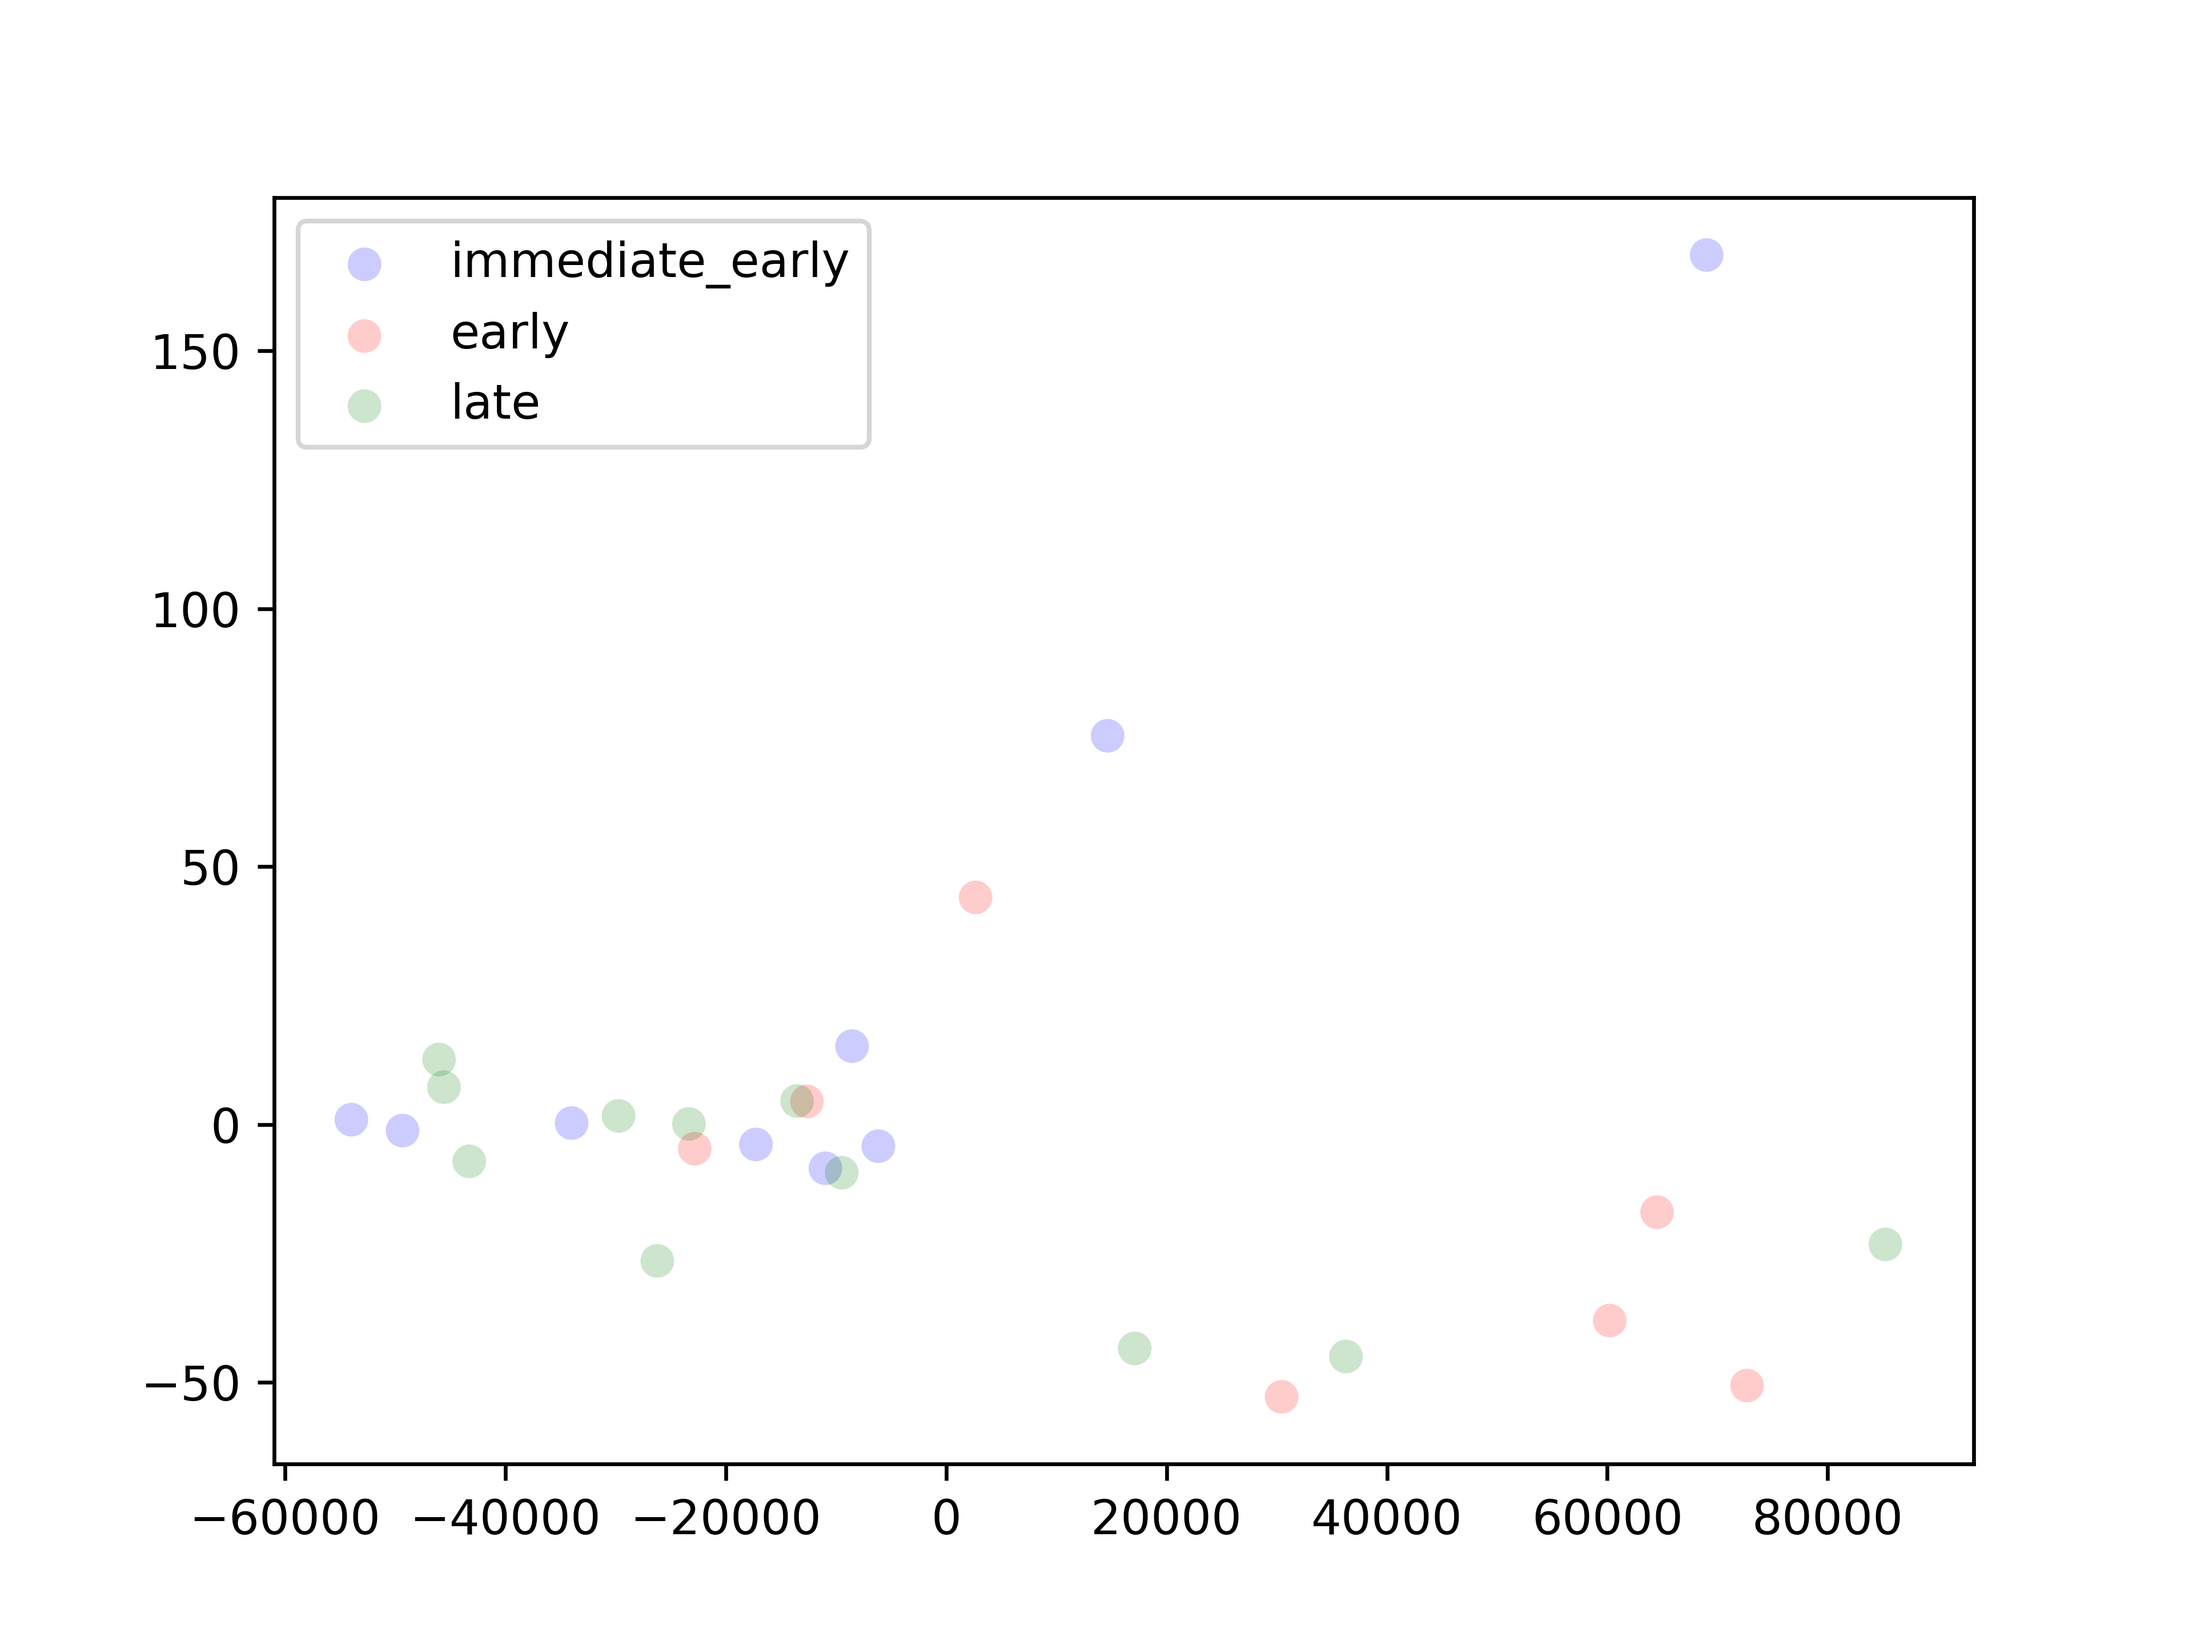
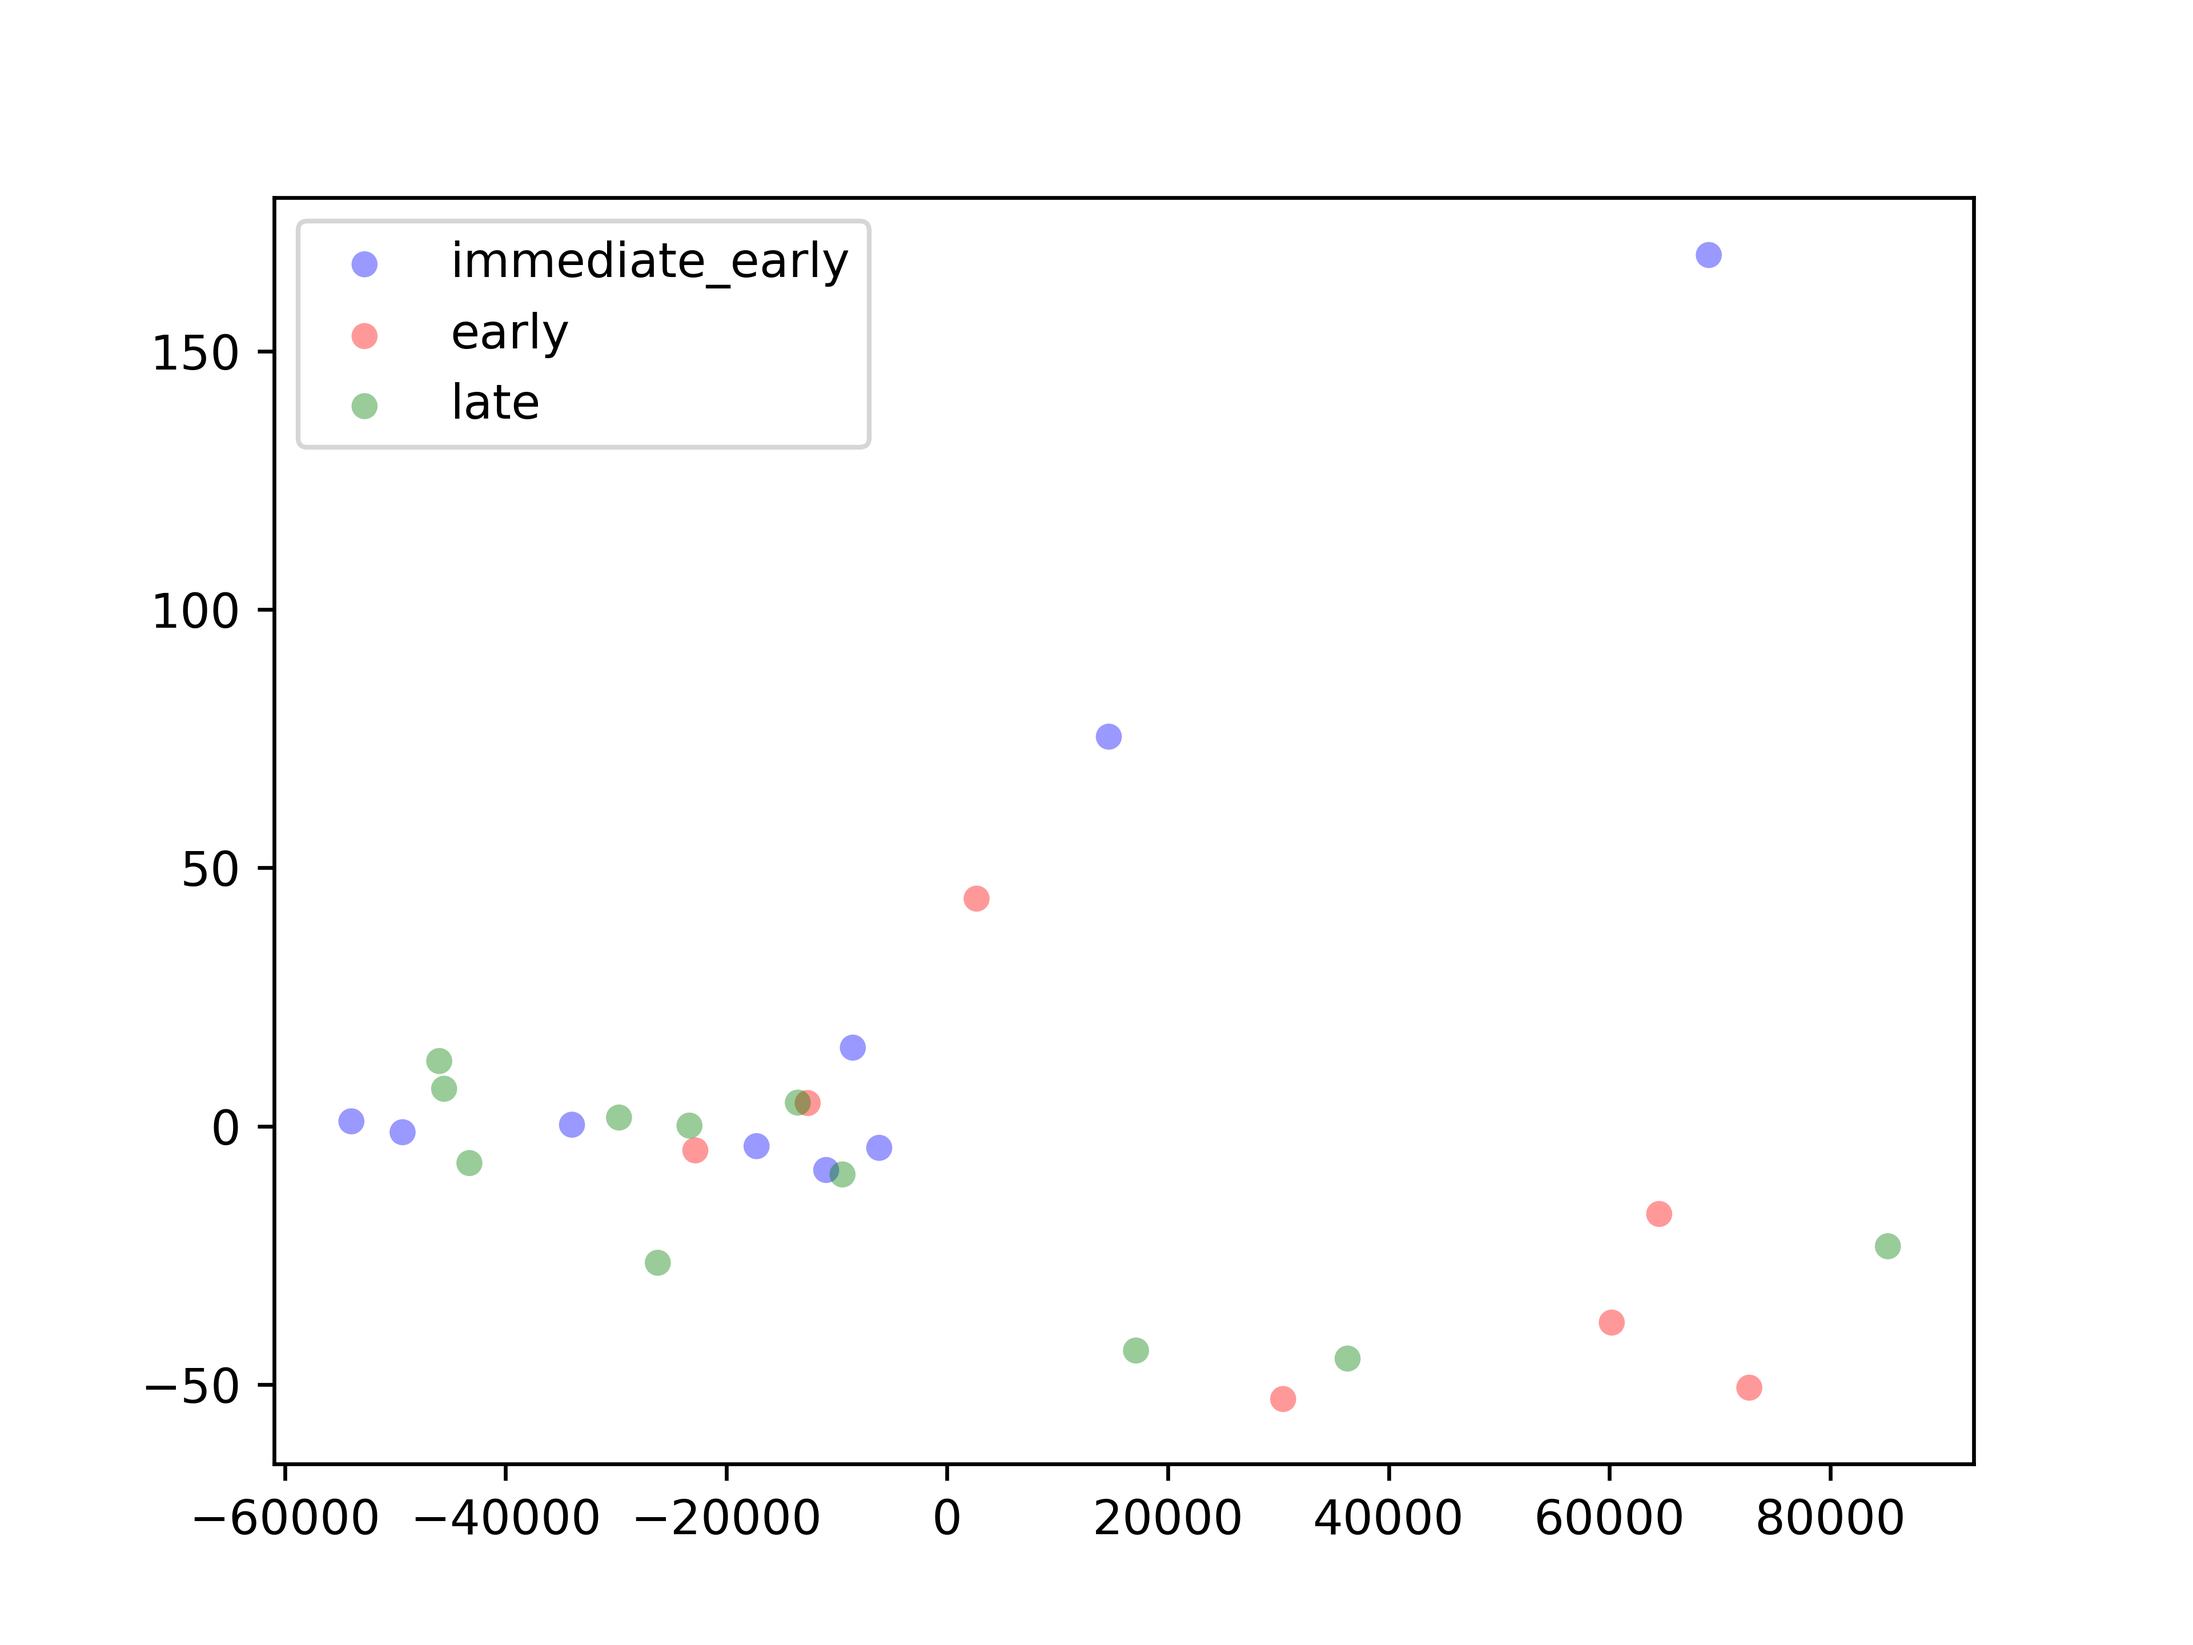
new plots

diff --git a/Classification/PCA.py b/Classification/PCA.py
@@ -15,11 +15,11 @@ def t_sne(features):
 
 def pca(features):
     X = features[features.columns[2:-1]]
-    pca = PCA(n_components=2)
+    pca = PCA()
 
     pca.fit(X)
     results = pca.transform(X)
-    return results
+    return results, pca
 
 
 def plot(features, pca_results, filename, method):
@@ -35,8 +35,8 @@ def plot(features, pca_results, filename, method):
             l_x.append(pca_results[i][0])
             l_y.append(pca_results[i][1])
 
-    alpha = 0.2
-    size = 50
+    alpha = 0.4
+    size = 30
     fig, ax = plt.subplots()
     ax.scatter(ie_x, ie_y, c='b', s=size, alpha=alpha, label='immediate_early', edgecolors='none')
     ax.scatter(e_x, e_y, c='r', s=size, alpha=alpha, label='early', edgecolors='none')
@@ -56,10 +56,14 @@ def main():
         tsne_results = t_sne(features)
         plot(features, tsne_results, virus["name"], 'TSNE')
 
-        pca_results = pca(features)
+        pca_results, pca_obj = pca(features)
+
+        print(f'Singular values for {virus["name"]}:\n{pca_obj.singular_values_}\n')
+
         plot(features, pca_results, virus['name'], 'PCA')
 
-    pca_results = pca(combined_features)
+    pca_results, pca_obj = pca(combined_features)
+    print(f'Singular values for combination of all herpes viruses:\n{pca_obj.singular_values_}\n')
     tsne_results = t_sne(combined_features)
     plot(combined_features, pca_results, 'all_herpes_viruses', 'PCA')
     plot(combined_features, tsne_results, 'all_herpes_viruses', 'TSNE')
